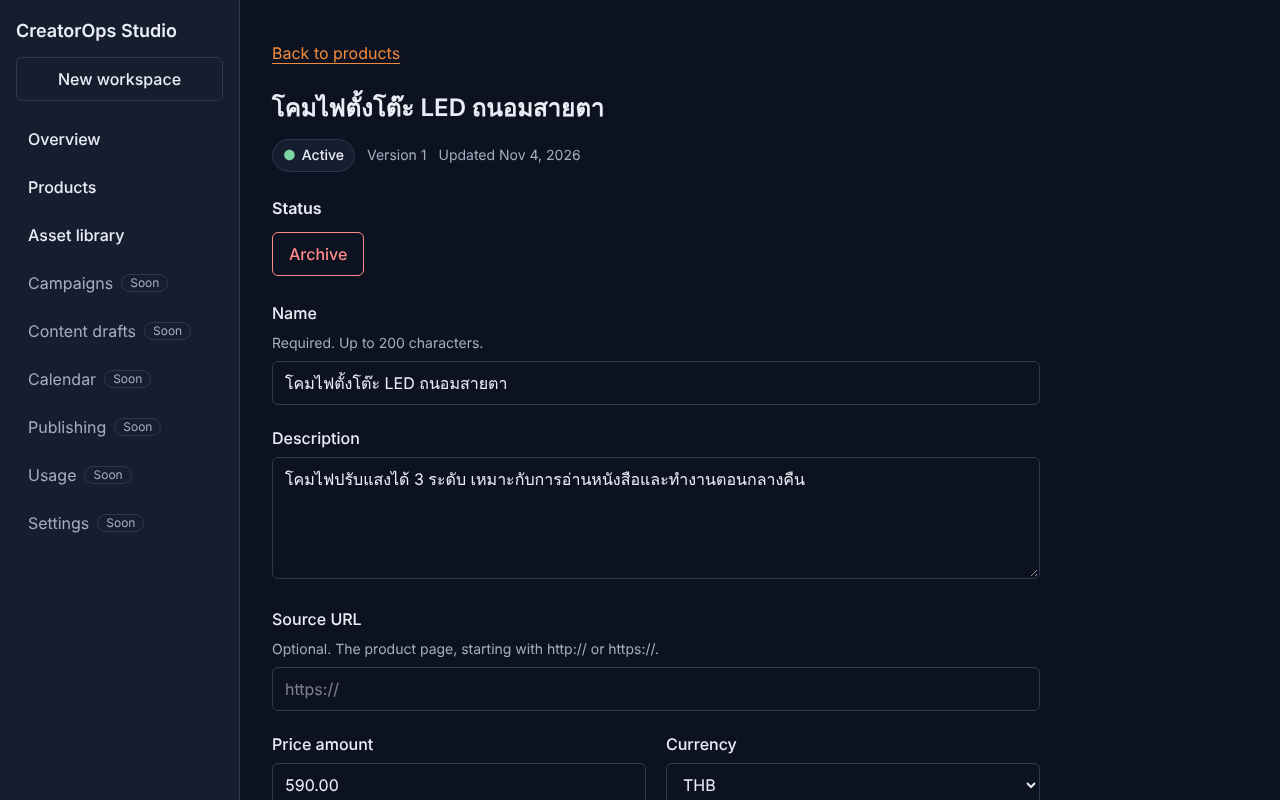
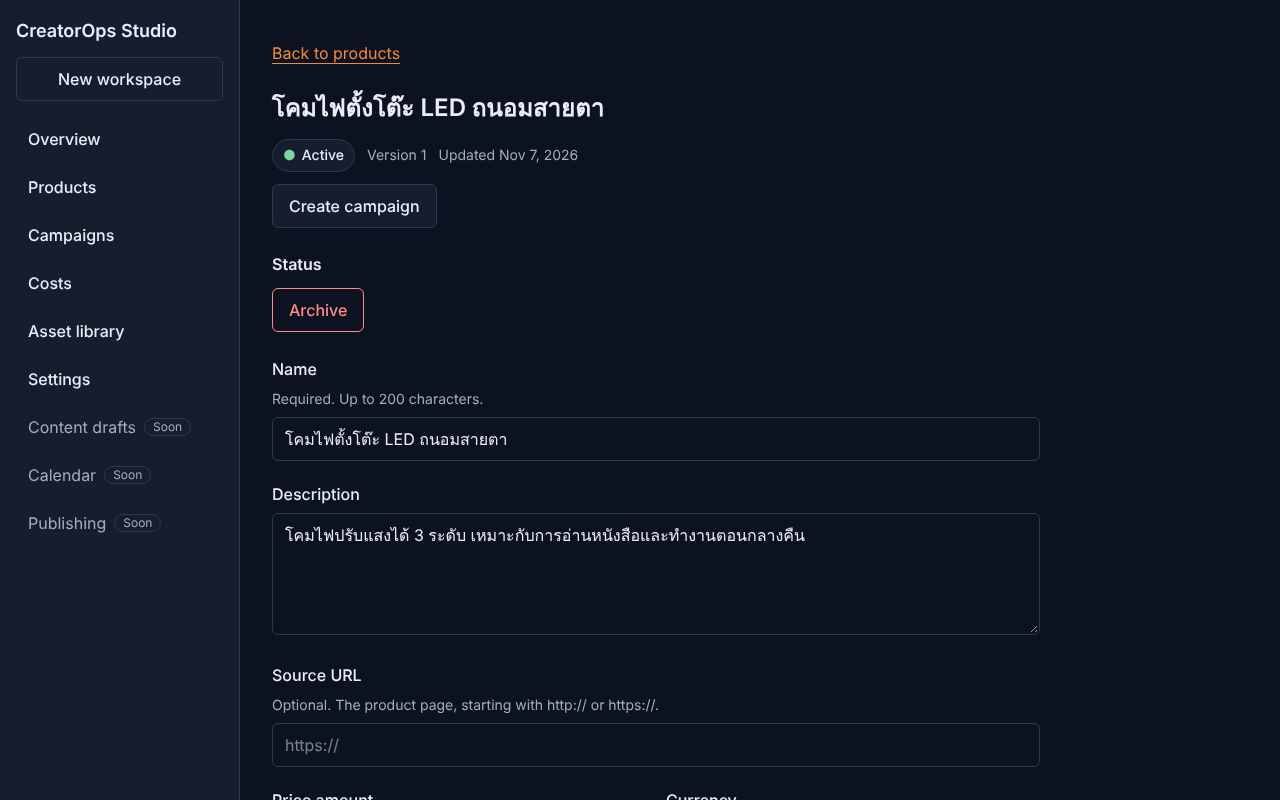
docs: refresh screenshots; capture script now runs a worker
New: campaign page, draft with video prompts and export, Settings, Shopee
importer (fake page). README updated (its status line was stale). Existing
shots recaptured from the current build.

Claude-Session: https://claude.ai/code/session_01PYPXS2g2RbMbFum12Q5cXv

diff --git a/README.md b/README.md
@@ -8,11 +8,11 @@ An extension-first content operations tool for Thai solo sellers, affiliate crea
 
 ## Status
 
-Phases 0–2 are built and verified: monorepo and CI, API with mock auth, web dashboard, Chrome MV3 side panel, workspaces, products, and media uploads with signed URLs. Phase 3 (content generation with a mock provider) is next. Current progress is in `docs/IMPLEMENTATION_STATUS.md`; a short handoff is in `docs/WORKING_NOTES.md`. Run commands are under "Development commands" below.
+Built and verified against fake pages and a mock provider (the owner tests the real Meta AI, Flow and Shopee tabs): monorepo and CI, API with mock auth, web dashboard, Chrome MV3 side panel, workspaces, products, media uploads, campaigns and drafts with a job worker, real text through an OpenAI-compatible provider, the Meta AI and Flow helpers, the Shopee importer, video prompts and ZIP export. Current progress is in `docs/IMPLEMENTATION_STATUS.md`; a short handoff is in `docs/WORKING_NOTES.md`. Run commands are under "Development commands" below.
 
 ### Screenshots (captured from the running app)
 
-Regenerate with `node scripts/capture-screenshots.mjs` (needs `DATABASE_URL`, built packages and extension; see the script header). The side panel is loaded as a tab because automation cannot open Chrome's real side panel.
+Regenerate with `node scripts/capture-screenshots.mjs` (needs `DATABASE_URL`, `REDIS_URL`, built packages and the extension e2e build; see the script header). The side panel is loaded as a tab because automation cannot open Chrome's real side panel.
 
 | Dashboard products | Asset library (uploaded) |
 |---|---|
@@ -22,7 +22,15 @@ Regenerate with `node scripts/capture-screenshots.mjs` (needs `DATABASE_URL`, bu
 |---|---|
 | ![Product detail](docs/screenshots/web-product-detail.png) | ![Side panel](docs/screenshots/extension-side-panel.png) |
 
-More: `web-overview.png`, `web-new-workspace.png` in `docs/screenshots/`.
+| Campaign page | Draft with video prompts and export |
+|---|---|
+| ![Campaign](docs/screenshots/web-campaign-page.png) | ![Draft results](docs/screenshots/web-draft-results.png) |
+
+| Settings (text provider) | Shopee importer in the side panel |
+|---|---|
+| ![Settings](docs/screenshots/web-settings.png) | ![Shopee importer](docs/screenshots/extension-shopee.png) |
+
+The Shopee shot uses a fake Shopee page; the draft uses the free mock text writer. More in `docs/screenshots/`: `web-overview.png`, `web-new-workspace.png`, `extension-create.png`.
 
 ## Try it locally (one command)
 

diff --git a/docs/WORKING_NOTES.md b/docs/WORKING_NOTES.md
@@ -138,6 +138,8 @@ Q-001 text provider, Q-002 image/video provider and spending cap, Q-005 Thai eva
 4. Wire the paid video API (`generate_video`, Gemini Omni provider in `provider-core/src/video.ts`, Settings selector) only when the owner has a paid Gemini key and a cap (D-080 part 2).
 5. Hosted deployment and real sign-in (Q-003, Q-004) before outside testers.
 
+**Screenshots refreshed 2026-11-07:** `scripts/capture-screenshots.mjs` now also runs a worker (needs `REDIS_URL` and `apps/extension/dist-e2e`) and adds `web-campaign-page`, `web-draft-results` (video prompts, export), `web-settings` and `extension-shopee` (fake Shopee page); README updated. Not captured: Scenes list, Meta AI / Flow progress, Costs with real numbers (the mock provider costs nothing), Results with attached pictures.
+
 **Old plan below is kept for history.**
 
 ## Next steps
